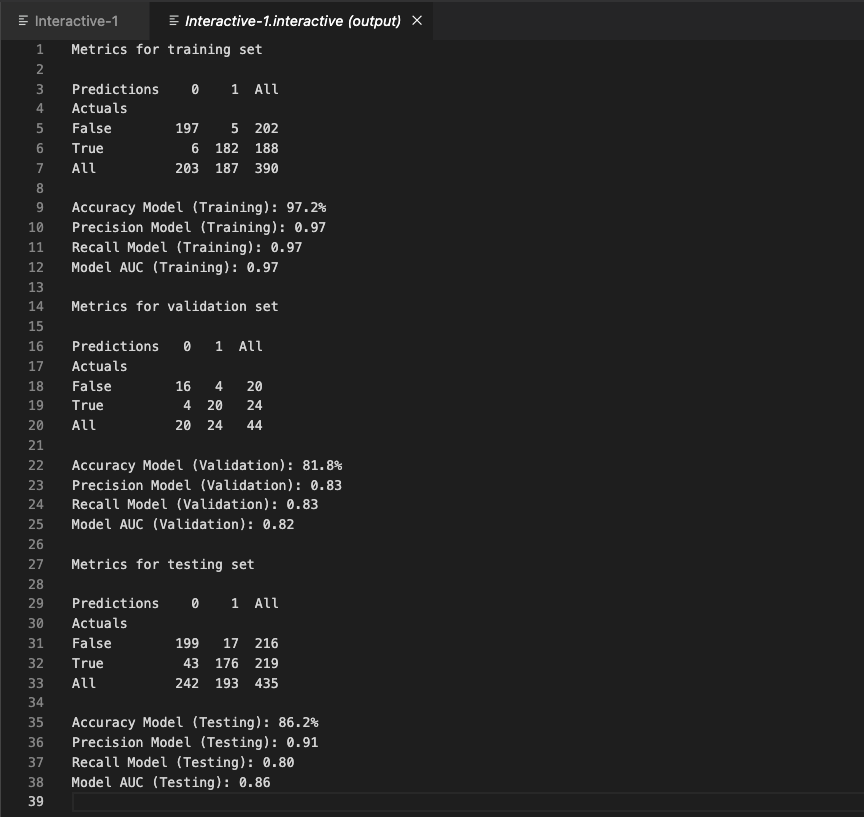
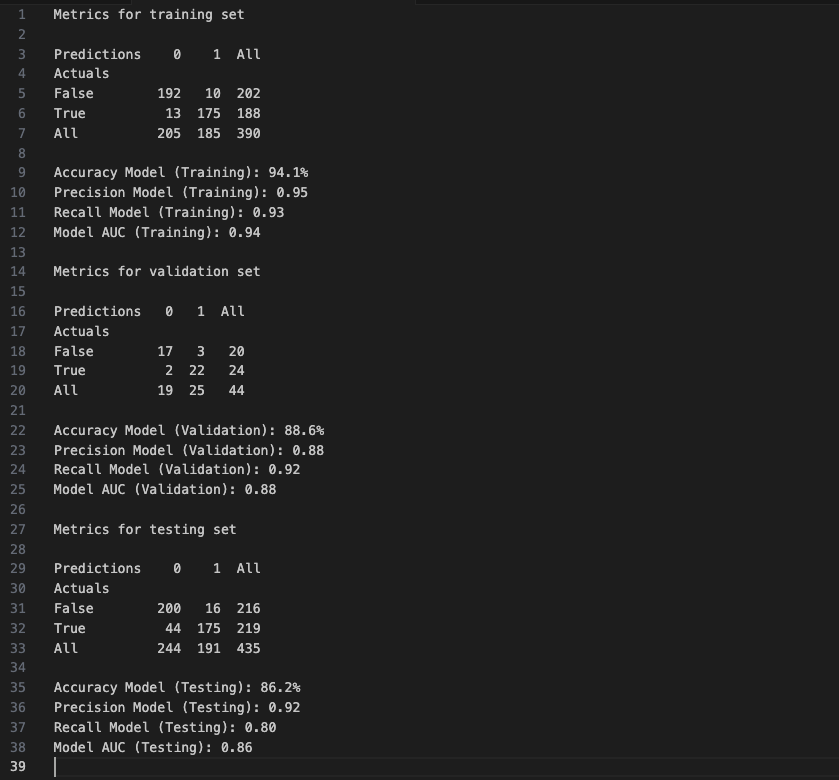
Updated metrics and README.md w/ revised data

Changed region(s): [[0.0, 0.0, 0.4648, 1.0], [0.0, 0.0615, 0.031, 0.1538]]

diff --git a/data/data_prep.py b/data/data_prep.py
@@ -346,7 +346,7 @@ for n in scree:
     scree_fit = scree_svd.fit(X_train[common_cols])
     svd_performance.append(scree_fit.explained_variance_ratio_.sum())
 
-n_components = len([x for x in svd_performance if x <= .95])
+n_components = len([x for x in svd_performance if x <= .975])
 model_svd = TruncatedSVD(n_components=n_components)
 X_train_svd = pd.DataFrame(model_svd.fit_transform(X_train[common_cols]))
 X_test_svd = pd.DataFrame(model_svd.transform(X_test[common_cols]))

diff --git a/README.md b/README.md
@@ -1,7 +1,7 @@
 # congress_districts
 PREDICTING 2024 CONGRESSIONAL DISTRICT OUTCOMES USING POLLING DATA AND DIMENSIONALITY REDUCTION ON AMERICAN COMMUNITY SURVEY DATA
 
-Utilizing singular value decomposition (SVD) with an automated selection criterion, which captures 93.8% of the variation in the data, American Community Survey (ACS) 5-Year Estimates that were originally comprised of 7,371 separate features were reduced to a mere six components. On fitting a baseline model that so far lacks hyperparameter tuning and omits the relevant pre-election polling data, these six components yield a training set overall accuracy of 97.2%, a validation set overall accuracy of 81.8%, and a testing set overall accuracy of 86.2%. Given the shifting congressional district lines between the naively chosen training and validation set year (i.e., 2020) and testing set year (i.e., 2022), coupled with the fact that the latter was also a midterm election cycle where the composition of the vote typically differs from the general election cycle in both number and demographically, these early results display just how powerful a technique like SVD can be by itself for distilling from a large amount of data those salient features that are encoded within it.
+Utilizing singular value decomposition (SVD) with an automated selection criterion, which captures 97.5% of the variation in the data, American Community Survey (ACS) 5-Year Estimates that were originally comprised of 7,371 separate features were reduced to a mere six components. On fitting a baseline model that so far lacks hyperparameter tuning and omits the relevant pre-election polling data, these six components yield a training set overall accuracy of 94.1%, a validation set overall accuracy of 88.6%, and a testing set overall accuracy of 86.2%. Given the shifting congressional district lines between the naively chosen training and validation set year (i.e., 2020) and testing set year (i.e., 2022), coupled with the fact that the latter was also a midterm election cycle where the composition of the vote typically differs from the general election cycle in both number and demographically, these early results display just how powerful a technique like SVD can be by itself for distilling from a large amount of data those salient features that are encoded within it.
 
 ![alt text](metrics.png)
 
